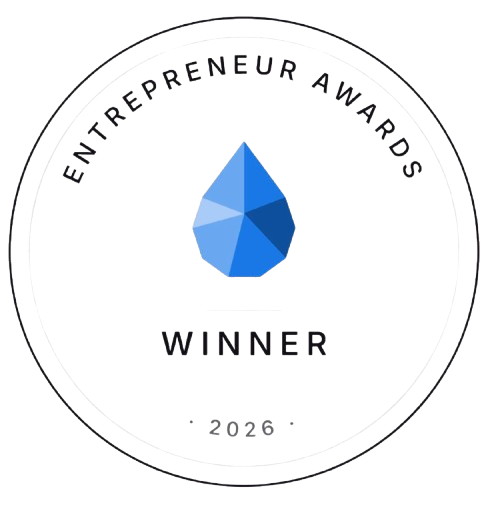
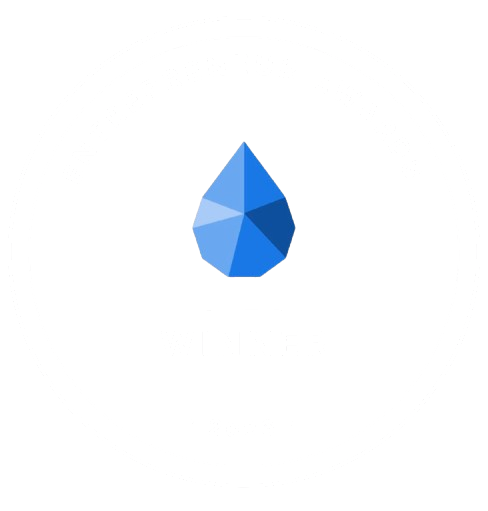
Enlarge Nico's award badge and use white label text.

diff --git a/ueber-uns/index.html b/ueber-uns/index.html
@@ -174,7 +174,7 @@
           <article class="about-founder-card">
             <div class="about-founder-card__head">
               <img class="about-founder-card__photo" src="/assets/team/nico-bergstreiser.jpg?v=3" alt="Nico Bergstreiser" width="52" height="52" loading="lazy" decoding="async">
-              <img class="about-founder-card__award" src="/assets/team/nico-entrepreneur-awards-2026.png" alt="Entrepreneur Awards Winner 2026" width="56" height="56" loading="lazy" decoding="async" data-i18n-alt="about.team.nico.awardAlt">
+              <img class="about-founder-card__award" src="/assets/team/nico-entrepreneur-awards-2026.png?v=2" alt="Entrepreneur Awards Winner 2026" width="92" height="92" loading="lazy" decoding="async" data-i18n-alt="about.team.nico.awardAlt">
             </div>
             <div class="about-founder-card__body">
               <h3>Nico Bergstreiser</h3>

diff --git a/about.css b/about.css
@@ -130,12 +130,12 @@
   flex-wrap:wrap;
 }
 .about-founder-card__award{
-  width:56px;
-  height:56px;
+  width:clamp(72px,18vw,92px);
+  height:clamp(72px,18vw,92px);
   flex-shrink:0;
   object-fit:contain;
   display:block;
-  filter:drop-shadow(0 2px 8px rgba(0,0,0,0.35));
+  filter:drop-shadow(0 3px 12px rgba(0,0,0,0.45));
 }
 .about-founder-card__photo{
   --founder-avatar-size:52px;
